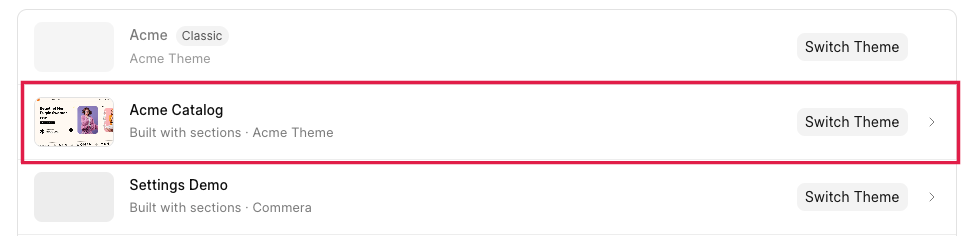
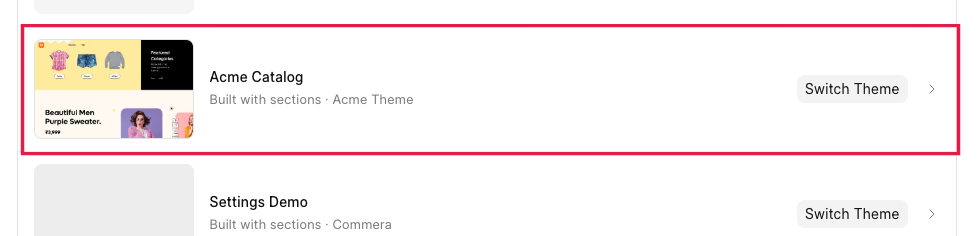
feat(themes): show larger, sharper theme thumbnails
Library rows show the thumbnail at 160x100 (112x70 on phone) and the live
card at 240x150 (full width on phone). The page is captured at scale 2 and
stored as a 480x300 WebP at quality 0.85, twice the largest display size,
with object-top so it is never upscaled.

- WOW.js keeps its elements hidden until they scroll into view, which never
  happens in the capture frame, so beforeCapture reveals them.
- Each thumbnail gets a unique file name. Deleting the old file freed its
  name, so every other save reused the same URL and browsers kept showing
  the cached old image.

diff --git a/dashboard/src/utils/capturePage.js b/dashboard/src/utils/capturePage.js
@@ -1,4 +1,4 @@
-import { domToWebp } from 'modern-screenshot'
+import { domToCanvas } from 'modern-screenshot'
 import { embeddedFontCss } from './embeddedFontCss'
 
 const IMAGE_WAIT_MS = 5000
@@ -40,7 +40,17 @@ function settleAnimations(frameDocument) {
   return Promise.race([Promise.all(finite.map((animation) => animation.finished.catch(() => null))), timeout])
 }
 
-export async function capturePage(url, { width, height, scale = 1, beforeCapture } = {}) {
+function resizeToWebp(source, width, height, quality) {
+  const canvas = document.createElement('canvas')
+  canvas.width = width
+  canvas.height = height
+  const context = canvas.getContext('2d')
+  context.imageSmoothingQuality = 'high'
+  context.drawImage(source, 0, 0, width, height)
+  return canvas.toDataURL('image/webp', quality)
+}
+
+export async function capturePage(url, { width, height, scale = 1, outputWidth = width, quality = 0.85, beforeCapture } = {}) {
   const frame = document.createElement('iframe')
   frame.width = String(width)
   frame.height = String(height)
@@ -53,17 +63,17 @@ export async function capturePage(url, { width, height, scale = 1, beforeCapture
     const frameDocument = frame.contentDocument
     beforeCapture?.(frameDocument)
     await Promise.all([frameDocument.fonts.ready, settleImages(frameDocument), settleAnimations(frameDocument)])
-    return await domToWebp(frameDocument.documentElement, {
+    const canvas = await domToCanvas(frameDocument.documentElement, {
       width,
       height,
       scale,
-      quality: 0.8,
       filter: startsAbove(height),
       onCloneEachNode: dropNonXmlAttributes,
       timeout: IMAGE_WAIT_MS,
       font: { cssText: await embeddedFontCss(frameDocument) },
       backgroundColor: frame.contentWindow.getComputedStyle(frameDocument.body).backgroundColor,
     })
+    return resizeToWebp(canvas, outputWidth, Math.round((outputWidth * height) / width), quality)
   } finally {
     frame.remove()
   }

diff --git a/dashboard/src/components/storefront/ThemeRow.vue b/dashboard/src/components/storefront/ThemeRow.vue
@@ -18,25 +18,29 @@ const meta = computed(() => (isClassic.value ? props.theme.source : `Built with 
 const editorRoute = computed(() =>
   isClassic.value ? null : { name: 'StorefrontThemeEditor', params: { theme: props.theme.name } },
 )
+const imageSize = computed(() => (props.featured ? 'aspect-[16/10] w-full sm:w-60' : 'aspect-[16/10] w-28 sm:w-40'))
 </script>
 
 <template>
   <div
-    class="relative flex items-center gap-3 sm:gap-4"
-    :class="[featured ? 'px-4 py-5' : 'px-4 py-3', editorRoute ? 'hover:bg-surface-gray-1' : 'cursor-default']"
+    class="relative flex gap-3 sm:items-center sm:gap-4"
+    :class="[
+      featured ? 'flex-col px-4 py-5 sm:flex-row' : 'items-center px-4 py-3',
+      editorRoute ? 'hover:bg-surface-gray-1' : 'cursor-default',
+    ]"
   >
     <Thumb
       v-if="theme.thumbnail"
       :image="theme.thumbnail"
-      :size="featured ? 'aspect-[16/10] w-28 sm:w-44' : 'aspect-[16/10] w-16 sm:w-20'"
-      class="border border-outline-gray-2"
+      :size="imageSize"
+      class="border border-outline-gray-2 object-top"
       :class="{ 'opacity-50': muted }"
       data-theme-thumbnail
     />
     <span
       v-else
-      class="aspect-[16/10] shrink-0 rounded-4 bg-surface-gray-3"
-      :class="[featured ? 'w-28 sm:w-44' : 'w-16 sm:w-20', { 'opacity-50': muted }]"
+      class="shrink-0 rounded-4 bg-surface-gray-3"
+      :class="[imageSize, { 'opacity-50': muted }]"
       aria-hidden="true"
     />
     <div class="min-w-0 flex-1">
@@ -75,7 +79,7 @@ const editorRoute = computed(() =>
     </Button>
     <span
       class="lucide-chevron-right size-4 shrink-0 text-ink-gray-5"
-      :class="{ invisible: !editorRoute }"
+      :class="{ invisible: !editorRoute, 'hidden sm:block': featured }"
       aria-hidden="true"
     />
   </div>

diff --git a/dashboard/src/data/themeLayout.js b/dashboard/src/data/themeLayout.js
@@ -16,7 +16,7 @@ const themeCaller = createAdminCaller('theme.')
 
 const thumbnailAction = effectScope(true).run(() => useAdminAction('theme_layout.save_thumbnail', { quiet: true }))
 
-const THUMBNAIL_SIZE = { width: 1280, height: 800, scale: 0.5 }
+const THUMBNAIL_SIZE = { width: 1280, height: 800, scale: 2, outputWidth: 480, quality: 0.85 }
 
 export async function saveThemeThumbnail(theme) {
   const params = new URLSearchParams({ theme, page: 'index', lang: 'en' })
@@ -25,6 +25,11 @@ export async function saveThemeThumbnail(theme) {
     beforeCapture: (frameDocument) => {
       const root = frameDocument.documentElement
       if (root.dataset.colorScheme === 'System') root.dataset.theme = 'light'
+      for (const element of frameDocument.querySelectorAll('.wow')) {
+        element.classList.remove('wow')
+        element.style.visibility = 'visible'
+        element.style.animation = 'none'
+      }
     },
   })
   await thumbnailAction.submit({ theme, image })

diff --git a/commera/tests/test_admin_theme_layout.py b/commera/tests/test_admin_theme_layout.py
@@ -177,6 +177,7 @@ class TestThemeThumbnail(IntegrationTestCase):
 
 		self.assertEqual(self.thumbnail_files(), [frappe.db.get_value("File", {"file_url": second_url})])
 		self.assertFalse(frappe.db.exists("File", first_file.name))
+		self.assertNotEqual(second_url, first_url)
 		self.assertEqual(frappe.db.get_value("Shop Theme", SUMMER_THEME, "thumbnail"), second_url)
 
 	def test_save_thumbnail_refuses_anything_but_an_image(self):

diff --git a/commera/api/admin/theme_layout.py b/commera/api/admin/theme_layout.py
@@ -188,7 +188,7 @@ def save_thumbnail(theme: str, image: str):
 
 	thumbnail = frappe.get_doc(
 		doctype="File",
-		file_name=f"{frappe.scrub(theme)}-thumbnail.{extension}",
+		file_name=f"{frappe.scrub(theme)}-thumbnail-{frappe.generate_hash(length=8)}.{extension}",
 		content=content,
 		is_private=0,
 		attached_to_doctype="Shop Theme",
